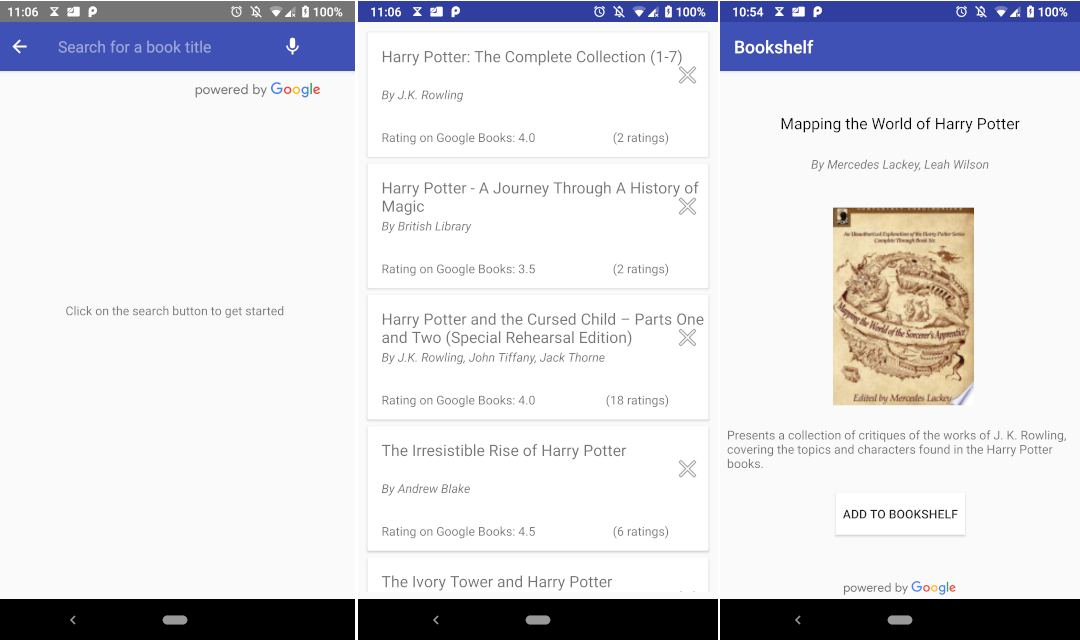
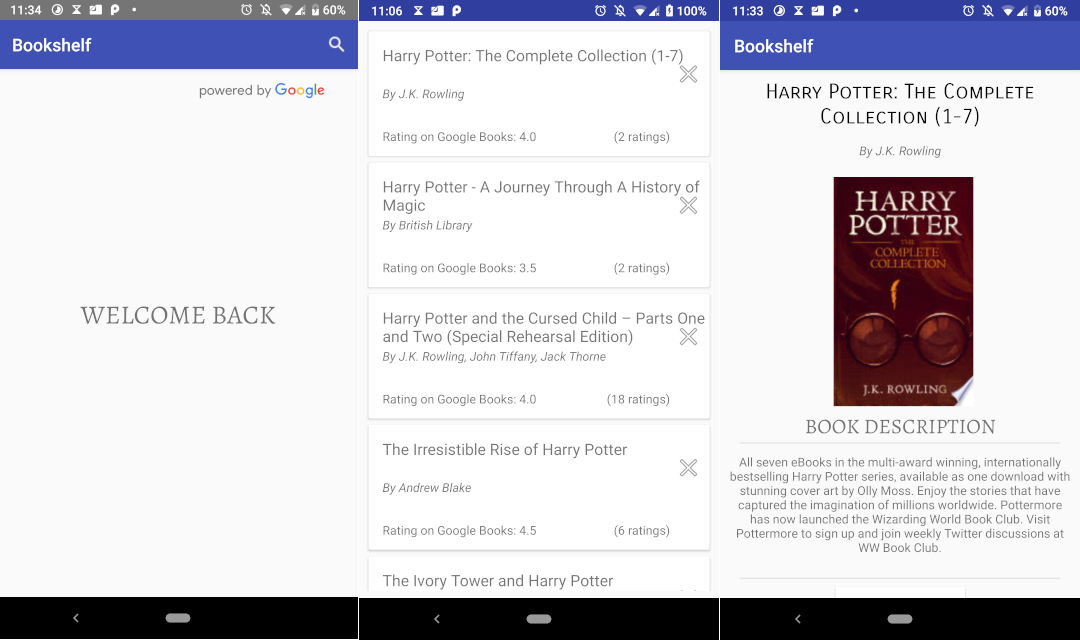
Updated screnshots and refactored code

diff --git a/app/src/main/java/com/presentedbykaran/bookshelf/SearchableActivity.java b/app/src/main/java/com/presentedbykaran/bookshelf/SearchableActivity.java
@@ -5,7 +5,6 @@ import android.content.Context;
 import android.content.Intent;
 import android.net.ConnectivityManager;
 import android.net.NetworkInfo;
-import android.net.Uri;
 import android.support.design.widget.Snackbar;
 import android.support.v7.app.AppCompatActivity;
 import android.os.Bundle;
@@ -13,18 +12,11 @@ import android.util.Log;
 import android.view.View;
 import android.widget.Toast;
 
-import com.facebook.drawee.backends.pipeline.Fresco;
-import com.facebook.drawee.view.SimpleDraweeView;
-import com.presentedbykaran.bookshelf.R;
-
 import org.json.JSONArray;
 import org.json.JSONException;
 import org.json.JSONObject;
 
-import java.io.BufferedReader;
 import java.io.IOException;
-import java.io.InputStream;
-import java.io.InputStreamReader;
 import java.io.Serializable;
 import java.util.Arrays;
 import java.util.List;
@@ -49,14 +41,9 @@ public class SearchableActivity extends AppCompatActivity {
     private String searchQuery;
     private boolean isAvailable = false;
 
-//    SimpleDraweeView draweeView;
-
     @Override
     protected void onCreate(Bundle savedInstanceState) {
         super.onCreate(savedInstanceState);
-
-//        Fresco.initialize(this);
-
         setContentView(R.layout.activity_searchable);
 
         Intent intent = getIntent();
@@ -65,12 +52,9 @@ public class SearchableActivity extends AppCompatActivity {
 
             if (isNetworkAvailable()) searchFor(searchQuery);
         }
-
-//        draweeView = findViewById(R.id.bookCoverDrawee);
     }
 
     private void searchFor(String query) {
-//        Toast.makeText(this, "You searched for: " + query, Toast.LENGTH_SHORT).show();
         Toast.makeText(this, "Fetching data. Please wait", Toast.LENGTH_SHORT).show();
 
 //        String author = "inauthor:keyes";
@@ -85,7 +69,6 @@ public class SearchableActivity extends AppCompatActivity {
 //        Log.d(TAG, bookURL);
 
         if (isNetworkAvailable()) {
-
             // OkHttp asynchronous GET recipe
             OkHttpClient client = new OkHttpClient();
 
@@ -106,7 +89,6 @@ public class SearchableActivity extends AppCompatActivity {
                         String jsonData = response.body().string();
                         Log.v(TAG, jsonData);
                         if (response.isSuccessful()) {
-//                            getBookDetails(jsonData);
 //                            mBooks = getBookDetails(jsonData);
                             bookList = parseBookListData(jsonData);
                         } else {
@@ -157,23 +139,19 @@ public class SearchableActivity extends AppCompatActivity {
             Book book = new Book(this);
 
             book.setBookTitle(getJSONString(volumeInfo, "title"));
-//            if (volumeInfo.has("title"))
-//                book.setBookTitle(volumeInfo.getString("title"));
-//            else {
-//                // Do not set a generic title. There should really be a title at the very least
-//                Log.d(TAG, "No title for index " + i);
-//            }
 
             if (volumeInfo.has("authors")) {
                 JSONArray jsonAuthors = volumeInfo.getJSONArray("authors");
                 String[] arrAuthors = new String[jsonAuthors.length()];
+
                 for (int j = 0; j < jsonAuthors.length(); j++)
                     arrAuthors[j] = jsonAuthors.getString(j);
+
                 book.setAuthors(Arrays.asList(arrAuthors));
             } else {
                 // if there isn't an authors property, let the Book class handle the logic
                 book.setAuthors(Arrays.asList(""));
-                Log.d(TAG, "No authors");
+//                Log.d(TAG, "No authors");
             }
 
             if (volumeInfo.has("averageRating")) {
@@ -185,71 +163,37 @@ public class SearchableActivity extends AppCompatActivity {
             }
 
             book.setRatingsCount(getJSONInt(volumeInfo, "ratingsCount"));
-//            if (volumeInfo.has("ratingsCount")) {
-//                int ratingsCount = volumeInfo.getInt("ratingsCount");
-//                book.setRatingsCount(ratingsCount);
-//            } else {
-//                Log.d(TAG,"No ratingsCount for index " + i);
-//                book.setRatingsCount(0);
-//            }
 
             book.setPublisher(getJSONString(volumeInfo, "publisher"));
-//            if (volumeInfo.has("publisher")) {
-//                String publisher = volumeInfo.getString("publisher");
-//                book.setPublisher(publisher);
-//            } else {
-//                Log.d(TAG,"No publisher for index " + i);
-//                // if there isn't a publisher property, let the Book class handle the logic
-//                book.setPublisher("");
-//            }
 
             book.setPublishedDate(getJSONString(volumeInfo, "publishedDate"));
-//            if (volumeInfo.has("publishedDate")) {
-//                String publishedDate = volumeInfo.getString("publishedDate");
-//                book.setPublishedDate(publishedDate);
-//            } else {
-//                Log.d(TAG,"No published date for index " + i);
-//                // if there isn't a published date property, let the Book class handle the logic
-//                book.setPublishedDate("");
-//            }
 
             book.setPageCount(getJSONInt(volumeInfo, "pageCount"));
-//            if (volumeInfo.has("pageCount")) {
-//                int pageCount = volumeInfo.getInt("pageCount");
-//                book.setPageCount(pageCount);
-//            } else {
-//                Log.d(TAG,"No publisher for index " + i);
-//                // if there isn't a page count property, set the page count to 0 and let the Book
-//                // class handle what to set the data as
-//                book.setPageCount(0);
-//            }
 
             book.setDescription(getJSONString(volumeInfo, "description"));
-//            if (volumeInfo.has("description")) {
-//                String description = volumeInfo.getString("description");
-//                book.setDescription(description);
-//            } else {
-//                Log.d(TAG,"No description for index " + i);
-//                // if there isn't a description property, let the Book class handle the logic
-//                book.setDescription("");
-//            }
 
-            // Do not require an else clause for this since there is a placeholder
+            // Do not require an else clause since there is a placeholder
             if (volumeInfo.has("imageLinks")) {
                 JSONObject imageLinks = volumeInfo.getJSONObject("imageLinks");
                 String strSmallThumbnailURL = imageLinks.getString("smallThumbnail");
                 book.setStrImageURL(strSmallThumbnailURL);
             }
 
+            book.setSelfLink(getJSONString(jsonBook, "selfLink"));
+
             books[i] = book;
         }
         return books;
     }
 
+    // Returns the empty string if the property does not exist to let the Book class handle the case
+    // where it does not exist
     private String getJSONString(JSONObject jsonObject, String property) throws JSONException {
         return (jsonObject.has(property)) ? jsonObject.getString(property) : "";
     }
 
+    // Returns 0 if the property does not exist since the Book class handles what to do if the
+    // property does not exist
     private int getJSONInt(JSONObject jsonObject, String property) throws JSONException {
         return (jsonObject.has(property)) ? jsonObject.getInt(property) : 0;
     }

diff --git a/app/src/main/java/com/presentedbykaran/bookshelf/Preview.java b/app/src/main/java/com/presentedbykaran/bookshelf/Preview.java
@@ -4,8 +4,6 @@ import android.content.Intent;
 import android.support.design.widget.Snackbar;
 import android.support.v7.app.AppCompatActivity;
 import android.os.Bundle;
-import android.support.v7.widget.LinearLayoutManager;
-import android.support.v7.widget.RecyclerView;
 import android.util.Log;
 import android.view.View;
 import android.widget.TextView;
@@ -19,11 +17,11 @@ import butterknife.BindView;
 import butterknife.ButterKnife;
 
 /** Bookshelf.  Copyright (C). 2018.  Karan Kumar
- * This program comes with ABSOLUTELY NO WARRANTY; for details type `show w'.
- * This is free software, and you are welcome to redistribute it
- * under certain conditions; type `show c' for details.
+ *  This program comes with ABSOLUTELY NO WARRANTY; for details type `show w'.
+ *  This is free software, and you are welcome to redistribute it
+ *  under certain conditions; type `show c' for details.
  *
- * This is licensed under GNU General Public License v3.0 only
+ *  This is licensed under GNU General Public License v3.0 only
  */
 
 public class Preview extends AppCompatActivity {
@@ -75,9 +73,7 @@ public class Preview extends AppCompatActivity {
             ratings.setText(bookArrayList.get(position).getRating());
             ratingCount.setText(bookArrayList.get(position).getRatingsCount());
 
-        } else {
-            Log.e(TAG, "Error in retrieving position");
-        }
+        } else Log.e(TAG, "Error in retrieving position");
     }
 
     public void addToBookShelfOnClick(View view) {

diff --git a/app/src/main/java/com/presentedbykaran/bookshelf/Book.java b/app/src/main/java/com/presentedbykaran/bookshelf/Book.java
@@ -1,17 +1,9 @@
 package com.presentedbykaran.bookshelf;
 
 import android.app.Activity;
-import android.content.Context;
-import android.net.Uri;
 import android.util.Log;
-import android.view.View;
-import android.widget.ImageView;
-
-import com.facebook.drawee.view.SimpleDraweeView;
 
 import java.io.Serializable;
-import java.net.URI;
-import java.net.URL;
 import java.util.List;
 
 /**
